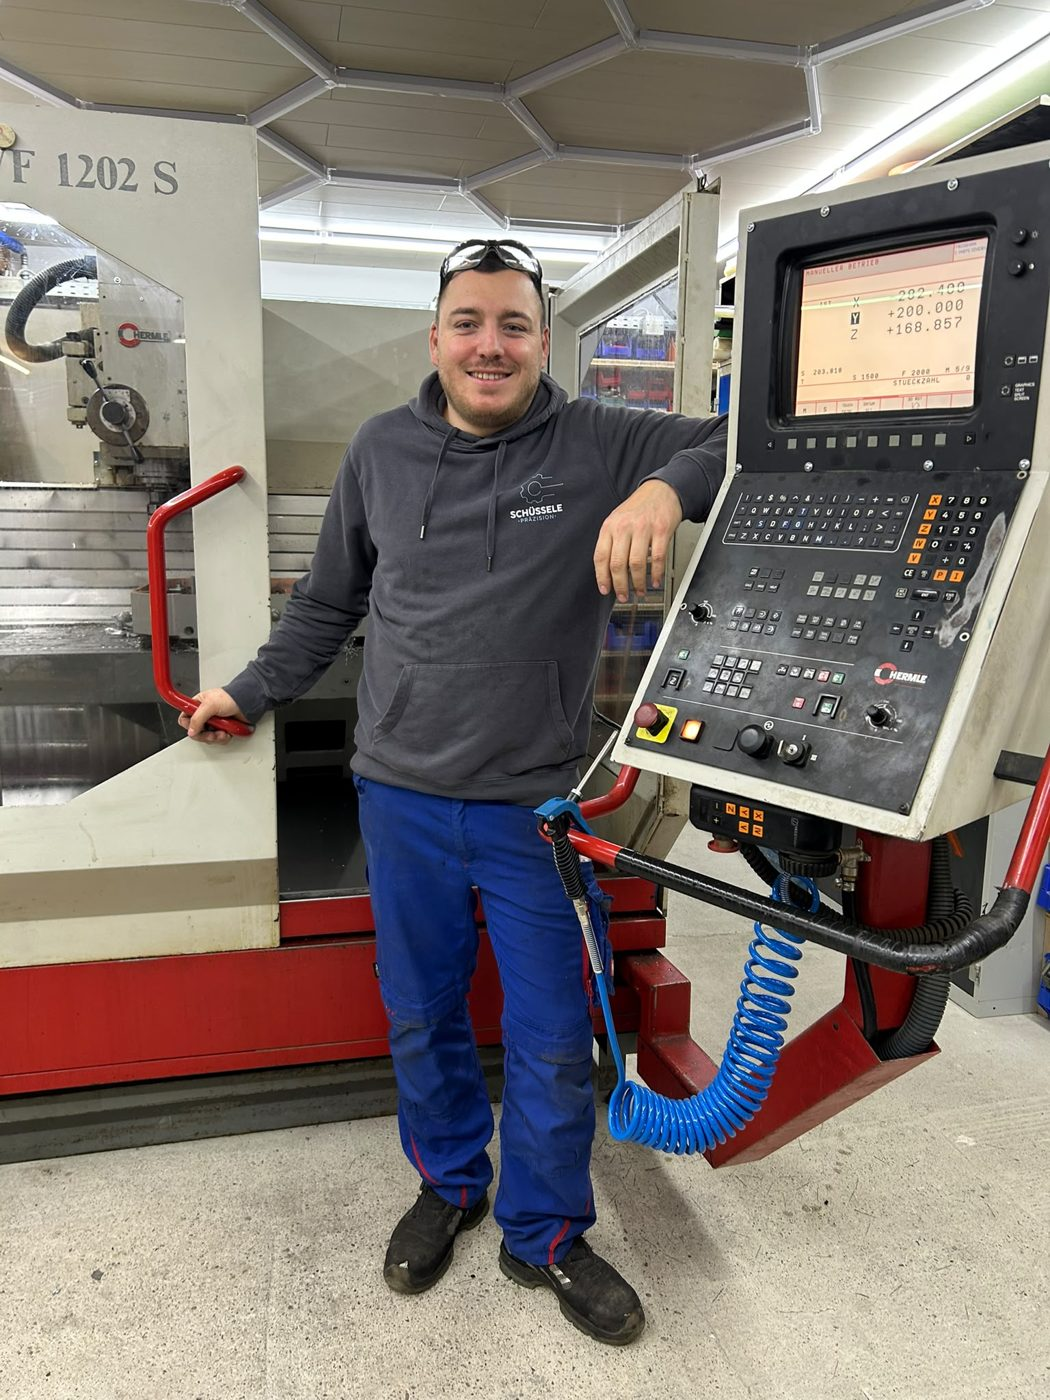
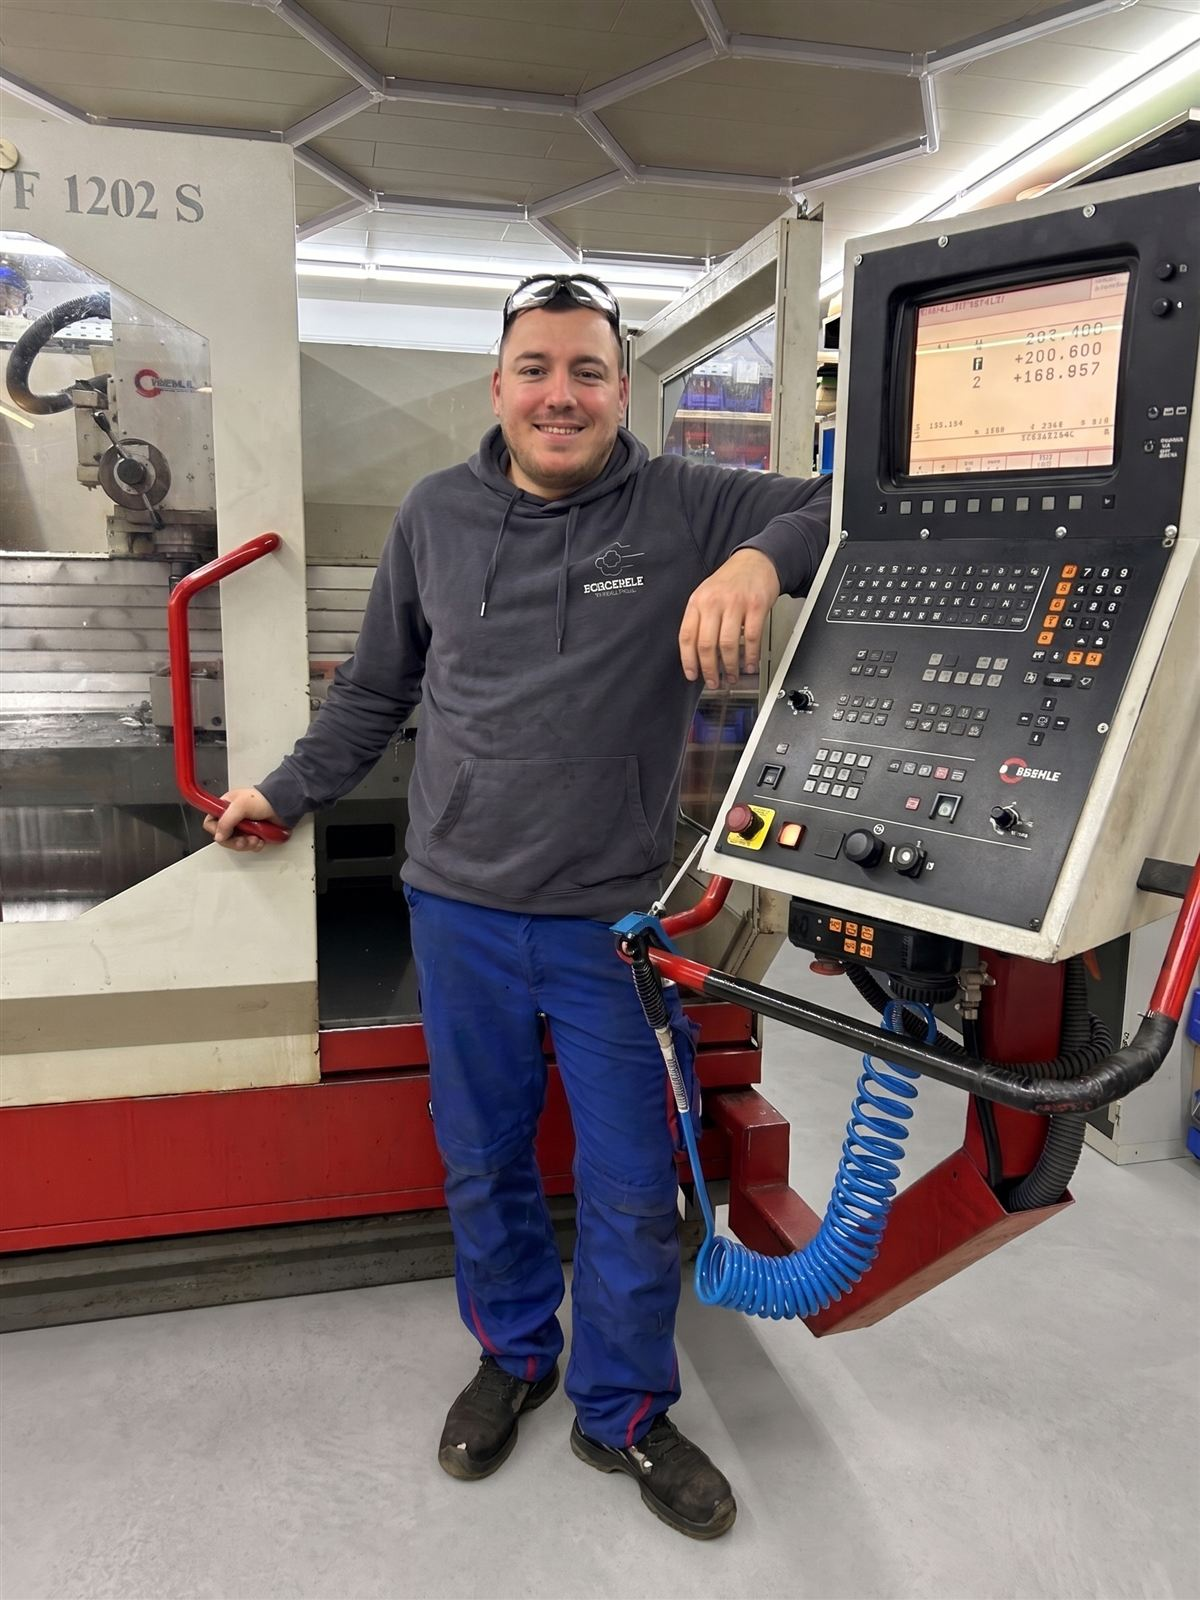
Gründungsdatum statt Werkstoffe, neues Foto von Mirco auf der Werkstattseite

diff --git a/src/views/HomeView.vue b/src/views/HomeView.vue
@@ -76,7 +76,7 @@ const routeGoogle = `https://www.google.com/maps/dir/?api=1&destination=${encode
 
 const facts = [
   { label: 'Inhaber', value: 'Mirco Schüssele' },
-  { label: 'Gegründet', value: 'April 2025' },
+  { label: 'Erfahrung', value: '> 10 Jahre CNC-Technik' },
   { label: 'Region', value: 'Ortenau' },
 ]
 
